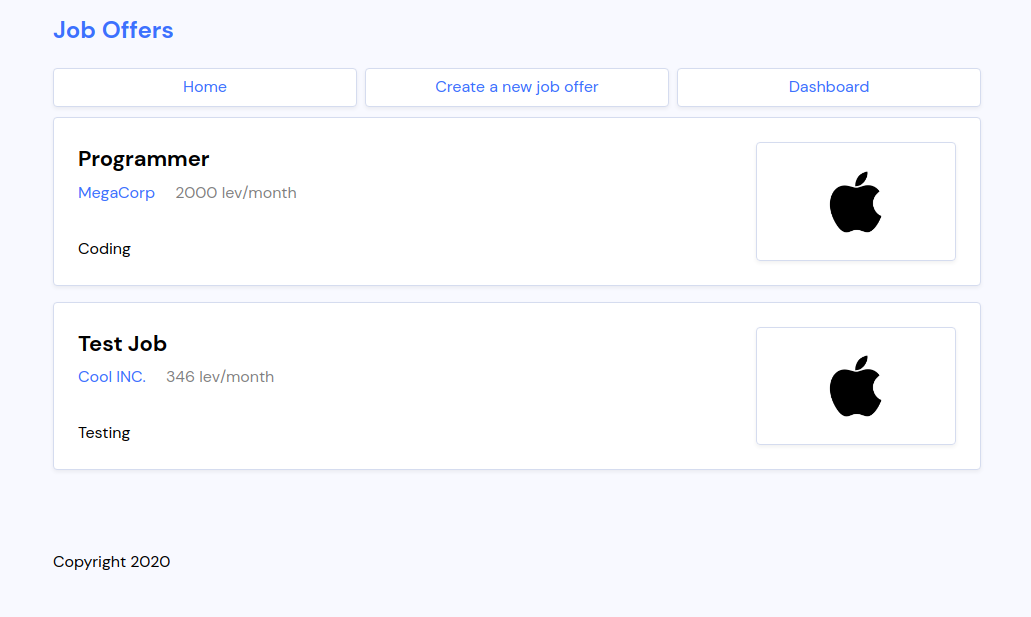
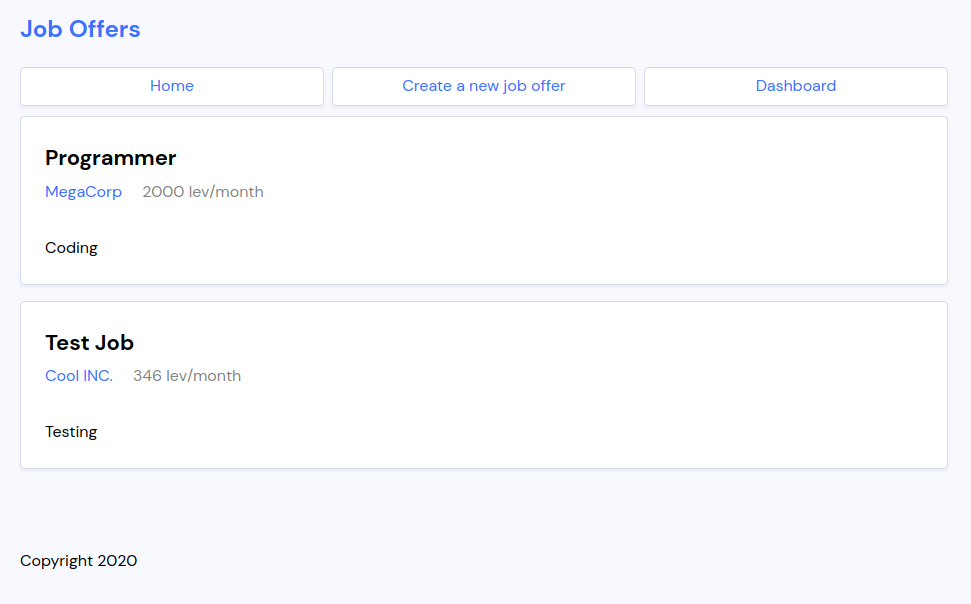
Removed static company image from landing page job offers

diff --git a/src/views/landing.php b/src/views/landing.php
@@ -12,11 +12,6 @@
 						'. $job->description . '
 					</div>
 				</div>
-				<div class="job-logo">
-					<div class="job-logo-box">
-						<img src="https://i.imgur.com/ZbILm3F.png" alt="">
-					</div>
-				</div>
 			</li>';
 	}
 ?>

diff --git a/README.md b/README.md
@@ -64,8 +64,6 @@ There are also a few custom stylings I had to make, all located in [`prog.css`](
 - form and input styling
 - pages that have only a form inside them (for example, the [`create offer`](https://github.com/Syndamia/devrix-job-board/blob/main/src/views/create-offer.php) page)
 
-**Note**: on the landing page, job offers have a picture to the right side of them. This is by design, since the template originally had them and without them, the job offers look weird/bad. There is no functinality behind them, they're static and purely aesthetical.
-
 ## Tools
 
 This repo contains some tools that could be useful during setup and development of the app. They're all located in the `tools` folder.
